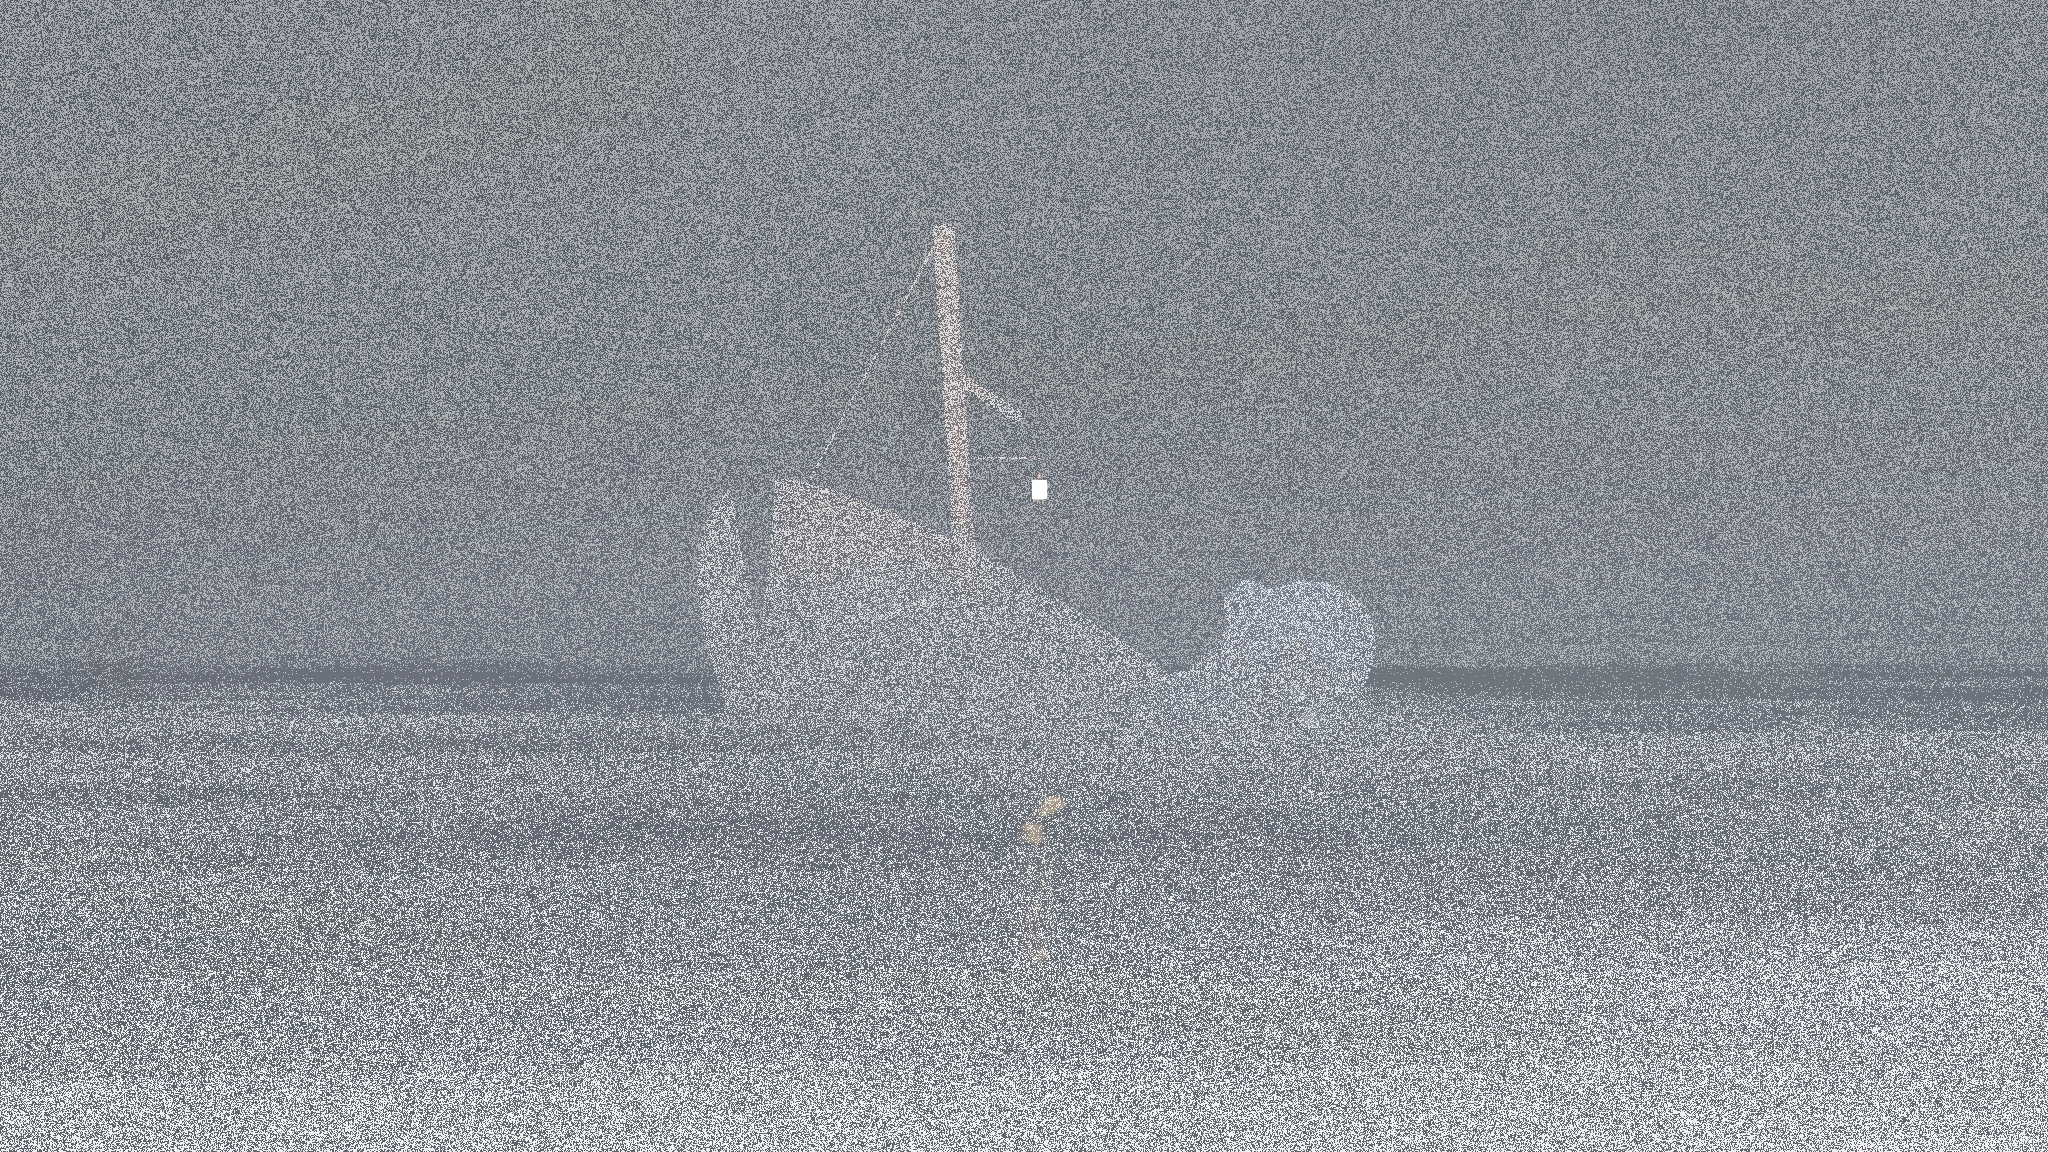
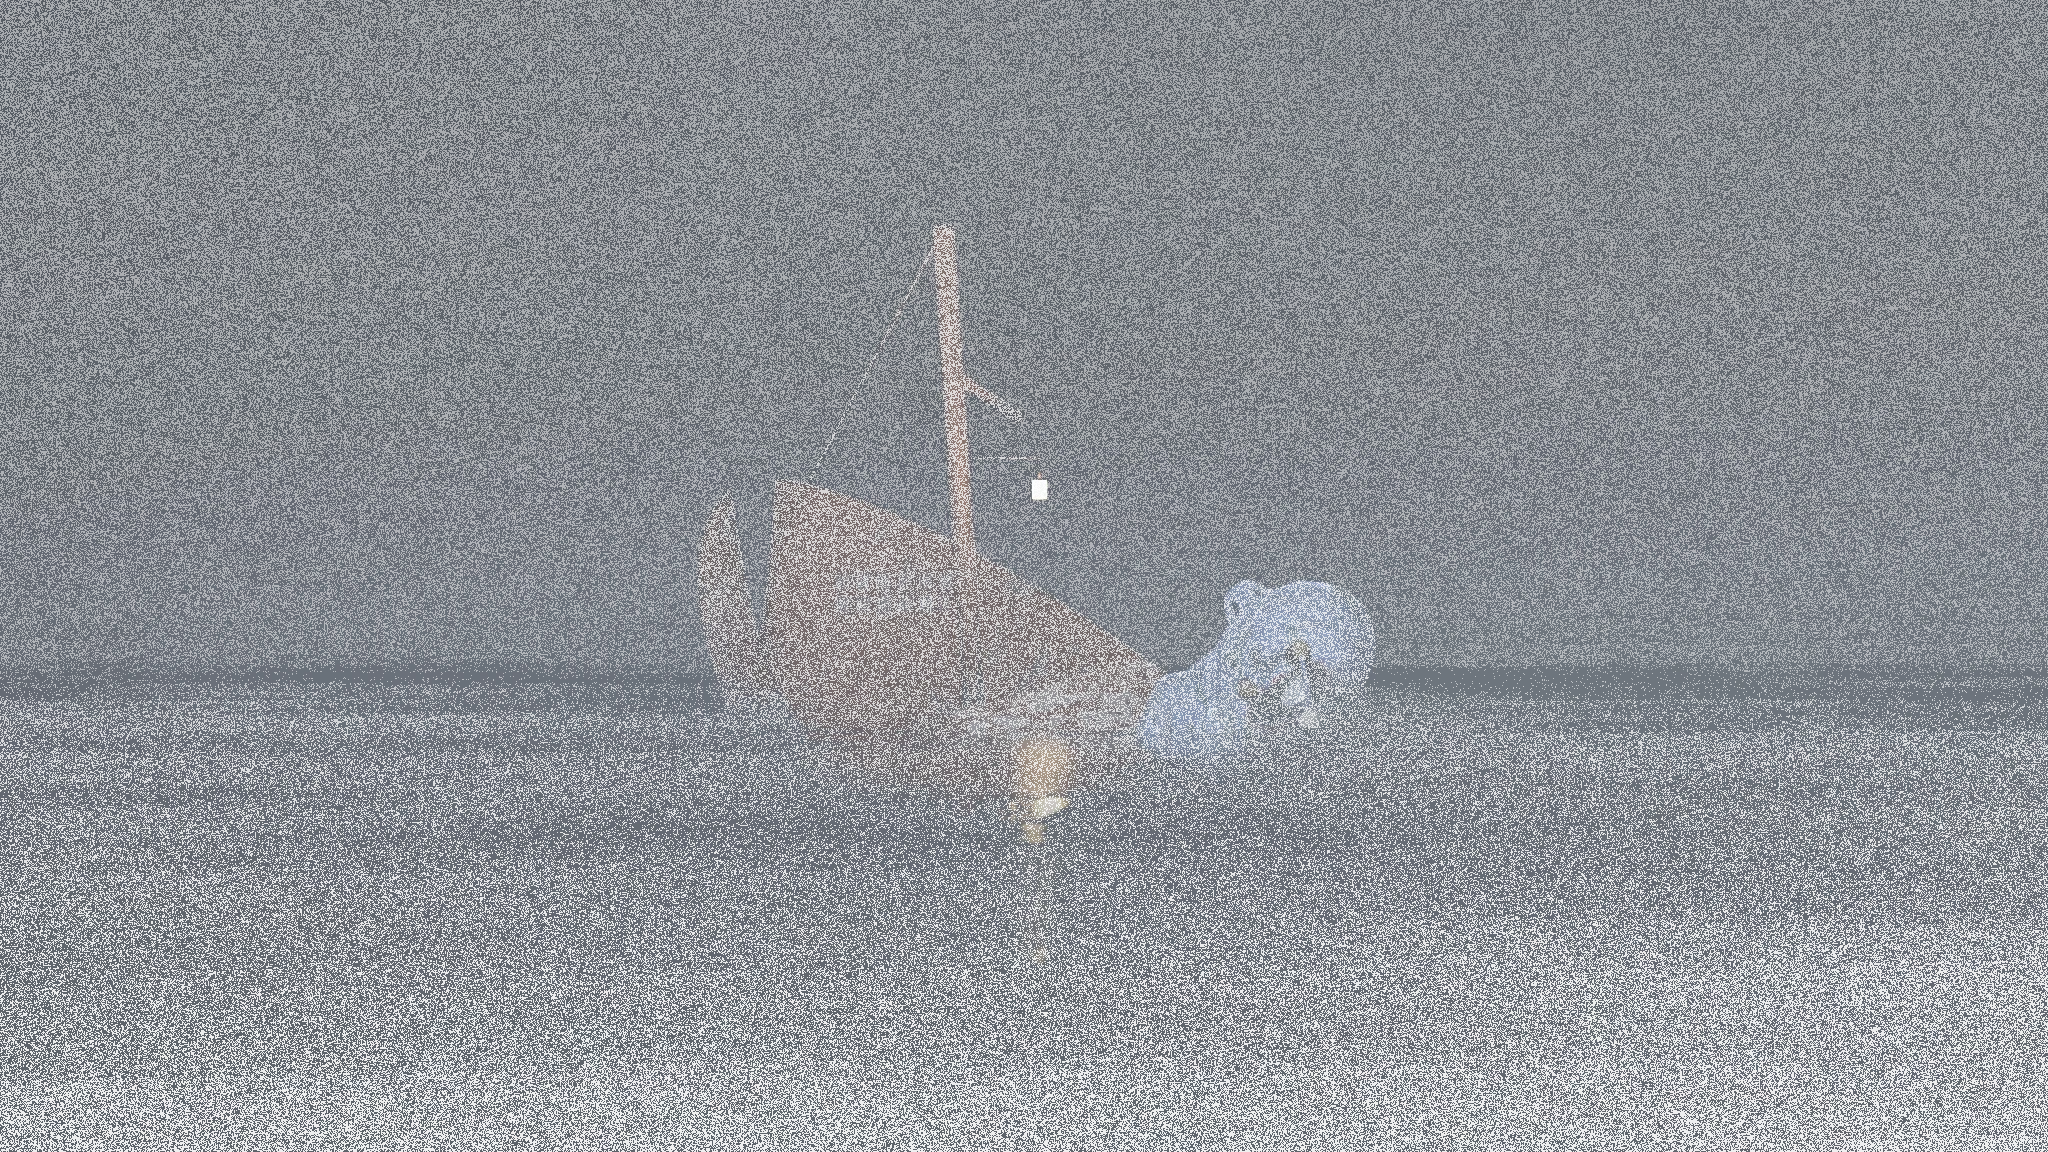
Nebbia e binocolo dalla prova dell'utente; il volantino resta 5 secondi in più
Con la nebbia accesa:
- Niente più alone della lampara davanti alla prua: veniva dal passo lamp del mondo, che
  anche a un quinto lasciava un velo caldo e granuloso col bordo tondo. La serie con la
  nebbia usa ora il passo lamp della serie senza (world_lamp_senza.webp, scala 0,15): la
  luce sull'acqua resta, la nebbia illuminata no. Tolto world_lamp.webp.
- Il relitto nel binocolo si legge: scafo, tacche, lanterna e Soggy presi per il 60% dalla
  vista senza nebbia, il resto (cielo, monti, nebbia attorno) dal render con la nebbia, così
  i bordi combaciano col mondo (tools/render/relitto_nebbia.py, anche per le viste di Soggy).
- Il binocolo si alza in 0,3 s a velocità costante con lo zoom uniforme (prima gran parte
  dell'ingrandimento arrivava alla fine) e i luoghi compaiono solo nell'ultimo tratto, quando
  riempiono il cerchio: non si vede più il loro riquadro dentro il mondo.

Il volantino dopo «Nuova partita» dura 8,8 s invece di 3,8 (un clic o un tasto lo saltano).

Provato nel gioco: prua, relitto a occhio nudo e col binocolo a metà e tutto alzato, con la
nebbia accesa e spenta; 188 test passano.

Claude-Session: https://claude.ai/code/session_01EnpEiCdqMobb6kXAdCVCvL

Changed region(s): [[0.4688, 0.5, 0.6562, 0.7188], [0.4062, 0.5, 0.4688, 0.5312]]

diff --git a/src/app/night.ts b/src/app/night.ts
@@ -243,6 +243,19 @@ function ease(x: number): number {
   return 1 - (1 - t) * (1 - t);
 }
 
+/** Il binocolo: quanto ci mette ad alzarsi e ad abbassarsi (s). Prima si avvicinava piano, e lo zoom fatto sui gradi
+ *  lasciava quasi tutto l'ingrandimento alla fine: sembrava non finire mai di salire (prova dell'utente del 13
+ *  ottobre). */
+const BINO_SU = 0.3;
+const BINO_GIU = 0.22;
+
+/** Il campo fra due zoom, con l'ingrandimento che cresce uniforme (in scala logaritmica) invece dei gradi. */
+function zoomFov(a: number, b: number, e: number): number {
+  const ta = Math.tan((a * D2R) / 2);
+  const tb = Math.tan((b * D2R) / 2);
+  return (2 * Math.atan(ta * Math.pow(tb / ta, e))) / D2R;
+}
+
 function smooth01(x: number): number {
   const t = Math.max(0, Math.min(1, x));
   return t * t * (3 - 2 * t);
@@ -898,11 +911,11 @@ export class Night {
       }
     }
     if (!this.canBino()) this.binoUp = false;
-    this.bino = approach(this.bino, this.binoUp ? 1 : 0, 7, dt);
+    this.bino = toward(this.bino, this.binoUp ? 1 : 0, BINO_SU, BINO_GIU, dt);
     if (this.bino < 0.001) this.bino = 0;
     if (!this.js) {
       const e = smooth01(this.bino);
-      view.hfov = 90 + (this.binoFov - 90) * e;
+      view.hfov = zoomFov(90, this.binoFov, e);
       view.pitch = -12 + (this.binoPitch + 12) * e;
       // le mani che reggono il binocolo: un tremolio lento e il respiro
       const t = this.d.stage.time;
@@ -2908,7 +2921,9 @@ export class Night {
     this.hud.root.style.opacity = String(1 - 0.8 * be);
     st.frame({
       layers,
-      bino: this.bino > 0 ? { amount: be, places } : null,
+      // i luoghi ad alta risoluzione compaiono solo nell'ultimo tratto della salita, quando riempiono quasi tutto il
+      // binocolo: prima si vedeva il loro riquadro, con un'altra nebbia, dentro il mondo (prova dell'utente del 13 ottobre)
+      bino: this.bino > 0 ? { amount: be, places, placesAmount: smooth01((this.bino - 0.6) / 0.4) } : null,
       overlay: this.overlay(),
       line: tk?.line ?? null,
       strokes: tk?.strokes,

diff --git a/src/engine/renderer.ts b/src/engine/renderer.ts
@@ -126,8 +126,9 @@ export interface FrameParams {
   glitch?: number;
   /** segnale perso, 0..1: la neve del televisore al posto dell'immagine (dopo il jumpscare) */
   snow?: number;
-  /** binocolo alzato: quanto (0..1) e i luoghi ad alta risoluzione da disegnare sopra al mondo */
-  bino?: { amount: number; places: BinoPlace[] } | null;
+  /** binocolo alzato: quanto (0..1) e i luoghi ad alta risoluzione da disegnare sopra al mondo; `placesAmount` (se
+   *  c'è) è quanto si vedono i luoghi, che compaiono solo alla fine della salita */
+  bino?: { amount: number; places: BinoPlace[]; placesAmount?: number } | null;
   beamAngle: number;
   /** bagliori lontani (spazio mondo), coperti dalla barca */
   glows: LightGlow[];
@@ -373,7 +374,7 @@ export class Renderer {
         .tex('uMask0', 5, m0?.amb ?? null)
         .tex('uMask1', 6, m1?.amb ?? null);
       this.tri.draw();
-      if (key === 'world' && f.bino && f.bino.amount > 0.001 && f.bino.places.length) {
+      if (key === 'world' && f.bino && (f.bino.placesAmount ?? f.bino.amount) > 0.001 && f.bino.places.length) {
         this.drawPersp(view, f);
         this.pLayer.use();
       }
@@ -467,7 +468,7 @@ export class Renderer {
     pp.m3('uRot', new Float32Array(view.worldRot))
       .f2('uTan', view.tanX, view.tanY)
       .f1('uW', f.ambient)
-      .f1('uAmount', b.amount)
+      .f1('uAmount', b.placesAmount ?? b.amount)
       .f3('uFogColor', 0.006, 0.010, 0.017)
       .f1('uFogDensity', 1 / 3200);
     for (const pl of b.places) {

diff --git a/src/app/app.ts b/src/app/app.ts
@@ -35,8 +35,9 @@ const ANNUNCIO = {
    *  si leggono ancora le condizioni in fondo; escono solo le linguette) */
   fx: 0.52,
   fy: 0.46,
-  /** quanto dura, e l'ultimo pezzo, in cui si spegne nel buio */
-  seconds: 3.8,
+  /** quanto dura (5 s in più di prima, richiesta dell'utente del 13 ottobre: un clic, un tasto o il controller lo
+   *  saltano), e l'ultimo pezzo, in cui si spegne nel buio */
+  seconds: 8.8,
   fadeOut: 0.45,
 };
 

diff --git a/tools/render/relitto_nebbia.py b/tools/render/relitto_nebbia.py
@@ -1,0 +1,94 @@
+"""
+Il relitto nel binocolo con la nebbia accesa (segnalazione dell'utente del 13 ottobre: «se guardi col binocolo la nave
+affondata non vedi nemmeno i segni sullo scafo a causa del rumore della nebbia»). Il relitto è il posto più basso del
+binocolo, sull'acqua: la foschia bassa lo copriva quasi tutto, le tacche sullo scafo e Soggy compresi.
+
+Il relitto, i suoi segni, la lanterna col riflesso e Soggy si prendono in parte (FORZA) dalla stessa vista senza
+nebbia, un po' più scura (GUADAGNO) perché la baia con la nebbia è più buia; il resto (il cielo, i monti, l'acqua e la
+nebbia attorno) resta quello del render con la nebbia, così i bordi del riquadro combaciano ancora col mondo. Cosa è
+«relitto» lo dice la vista senza nebbia: i pixel che si staccano dalla loro riga (l'acqua e il cielo sono quasi uguali
+in orizzontale), più vicini dei monti (il mist nell'alfa) e dentro un'ellisse attorno al relitto e ai posti di Soggy.
+
+Parte sempre dalle viste rese con la nebbia piena (se no ripeterlo schiarirebbe ogni volta di più): di base quelle
+installate nel commit ORIGINALI, oppure quelle della cartella data con --da (per esempio dopo aver rifatto il
+binocolo). Scrive bino_relitto.webp, bino_relitto_foxy0.webp e bino_relitto_foxy1.webp in public/assets/img (la
+serie senza nebbia, `_senza`, non cambia; scale e manifest neppure).
+
+Uso: tools/.venv/bin/python tools/render/relitto_nebbia.py [--da <cartella>] [--prova <cartella per le tavole>]
+"""
+import argparse
+import io
+import os
+import subprocess
+import sys
+
+import numpy as np
+from PIL import Image
+from scipy.ndimage import gaussian_filter
+
+QUI = os.path.dirname(os.path.abspath(__file__))
+sys.path.insert(0, QUI)
+RADICE = os.path.dirname(os.path.dirname(QUI))
+IMG = os.path.join(RADICE, 'public', 'assets', 'img')
+# il commit in cui le viste del relitto con la nebbia piena erano nel gioco
+ORIGINALI = 'adb26db'
+VISTE = ('bino_relitto', 'bino_relitto_foxy0', 'bino_relitto_foxy1')
+FORZA = 0.6
+GUADAGNO = 0.8
+
+
+def leggi(dati):
+    """Una vista del binocolo: la luce (lineare, divisa per la scala: tex^4) e il mist nell'alfa."""
+    a = np.asarray(Image.open(io.BytesIO(dati)).convert('RGBA')).astype(np.float32) / 255
+    return a[..., :3] ** 4, a[..., 3]
+
+
+def originale(nome, da):
+    if da:
+        with open(os.path.join(da, nome + '.webp'), 'rb') as f:
+            return f.read()
+    return subprocess.run(['git', '-C', RADICE, 'show', f'{ORIGINALI}:public/assets/img/{nome}.webp'], check=True, capture_output=True).stdout
+
+
+def peso(senza, mist_senza):
+    """Quanto prendere dalla vista senza nebbia (0..1): il relitto e Soggy sì, cielo, monti e acqua no."""
+    H, W = mist_senza.shape
+    lum = senza.mean(-1)
+    riga = np.median(lum, axis=1, keepdims=True)
+    stacco = np.clip((np.abs(lum - riga) / (riga + 0.004) - 0.45) / 0.35, 0, 1)
+    # i monti e il cielo hanno il mist attorno a 0,5; il relitto e l'acqua davanti meno
+    vicino = np.clip((0.48 - mist_senza) / 0.04, 0, 1)
+    yy, xx = np.mgrid[:H, :W]
+    e = ((xx / W - 0.50) / 0.20) ** 2 + ((yy / H - 0.42) / 0.30) ** 2
+    ellisse = np.clip((1.0 - e) / 0.25, 0, 1)
+    return gaussian_filter(stacco * vicino * ellisse, 2.0)
+
+
+def main():
+    ap = argparse.ArgumentParser()
+    ap.add_argument('--da', help='cartella con le viste rese con la nebbia piena (di base: il commit ORIGINALI)')
+    ap.add_argument('--prova', help='scrive qui una tavola prima/dopo invece di toccare il gioco')
+    a = ap.parse_args()
+    for nome in VISTE:
+        nebbia, mist = leggi(originale(nome, a.da))
+        with open(os.path.join(IMG, nome + '_senza.webp'), 'rb') as f:
+            senza, mist_senza = leggi(f.read())
+        w = peso(senza, mist_senza)[..., None]
+        out = nebbia * (1 - FORZA * w) + senza * GUADAGNO * FORZA * w
+        rgb8 = (np.clip(out, 0, 1) ** 0.25 * 255 + 0.5).astype(np.uint8)
+        a8 = (mist * 255 + 0.5).astype(np.uint8)
+        im = Image.fromarray(np.dstack([rgb8, a8]), 'RGBA')
+        if a.prova:
+            os.makedirs(a.prova, exist_ok=True)
+            vedi = lambda x: Image.fromarray((np.clip((y := np.clip(x * 15, 0, None)) / (1 + y), 0, 1) ** (1 / 2.2) * 255).astype(np.uint8))
+            tav = Image.new('RGB', (nebbia.shape[1], nebbia.shape[0] * 2))
+            tav.paste(vedi(nebbia), (0, 0))
+            tav.paste(vedi(out), (0, nebbia.shape[0]))
+            tav.resize((tav.width // 2, tav.height // 2)).save(os.path.join(a.prova, nome + '.jpg'), quality=88)
+        else:
+            im.save(os.path.join(IMG, nome + '.webp'), 'WEBP', quality=90, method=6, exact=True)
+        print(nome, 'peso medio', round(float(w.mean()), 4), 'massimo', round(float(w.max()), 3), flush=True)
+
+
+if __name__ == '__main__':
+    main()

diff --git a/docs/GDD.md b/docs/GDD.md
@@ -39,7 +39,7 @@ Horror in prima persona a inquadratura fissa (alla *Five Nights at Freddy's*): s
 
 Col controller (e sullo Steam Deck) si gioca tutto: la tabella è in «Controller e Steam Deck» (§14).
 
-- **Binocolo — easter egg** (fatto, approvato il 13 ottobre): lo alzi con `B` o tenendo premuto il tasto destro; la vista si stringe nei due cerchi e zooma forte (rotella: due livelli di zoom) sui luoghi dell'orizzonte, renderizzati a parte ad alta risoluzione (`tools/render/binocolo.py`: ingresso di Splashland, statua di Mama Marina, ruota panoramica, scivoli, albergo Miramare, edicola votiva, relitto, faro, paese). Le mani tremano appena, ma compensano buona parte del dondolio della barca (così a zoom massimo il dettaglio resta nel cerchio). Mentre guardi nel binocolo non vedi la barca, e **Molly non si sente guardata**. Non si può alzare sotto il telone, col sonar aperto o con un pesce in canna. Non serve a superare la notte: è un easter egg. Alcuni dettagli di lore si vedono solo così, e restano **criptici al massimo** (proposta in `LORE.md`, «Il binocolo», approvata il 13 ottobre).
+- **Binocolo — easter egg** (fatto, approvato il 13 ottobre): lo alzi con `B` o tenendo premuto il tasto destro; la vista si stringe nei due cerchi e zooma forte (rotella: due livelli di zoom) sui luoghi dell'orizzonte, renderizzati a parte ad alta risoluzione (`tools/render/binocolo.py`: ingresso di Splashland, statua di Mama Marina, ruota panoramica, scivoli, albergo Miramare, edicola votiva, relitto, faro, paese). Si alza in 0,3 s, con l'ingrandimento che cresce uniforme, e i luoghi ad alta risoluzione compaiono solo nell'ultimo tratto, quando riempiono il cerchio (prova dell'utente del 13 ottobre: prima ci metteva troppo, e durante la salita si vedeva il riquadro del luogo, con un'altra nebbia, dentro il mondo). Le mani tremano appena, ma compensano buona parte del dondolio della barca (così a zoom massimo il dettaglio resta nel cerchio). Mentre guardi nel binocolo non vedi la barca, e **Molly non si sente guardata**. Non si può alzare sotto il telone, col sonar aperto o con un pesce in canna. Non serve a superare la notte: è un easter egg. Alcuni dettagli di lore si vedono solo così, e restano **criptici al massimo** (proposta in `LORE.md`, «Il binocolo», approvata il 13 ottobre).
 
 ## 4. Struttura della notte
 

diff --git a/docs/ATMOSFERA.md b/docs/ATMOSFERA.md
@@ -133,6 +133,25 @@ Controllato nel gioco: sei direzioni con la luce alta e spenta, tutti i posti de
 vicino e via, l'opzione accesa e spenta a notte in corso. La grana che si vede sulla foschia chiara è quella della pellicola
 di sempre (`uGrain`), non del render.
 
+**Prova dell'utente del 13 ottobre sera** («la nebbia sulla parte frontale della barca, vicino alla lampara, è ancora
+fastidiosa»; «col binocolo la nave affondata non vedi nemmeno i segni sullo scafo»; «quando usi il binocolo ci mette
+troppo tempo a tirarlo su e capita di vedere lo stacco tra la tanta nebbia di senza il binocolo e il rettangolo con meno
+nebbia»). Con la nebbia accesa:
+
+- **Niente più alone della lampara nella nebbia**: veniva tutto dal passo `lamp` del mondo (provato nel gioco: tolto
+  quello sparisce, i bagliori e la barca non c'entrano), che anche a un quinto lasciava davanti alla prua un velo caldo e
+  granuloso con un bordo tondo. Ora la serie con la nebbia usa il passo `lamp` della serie senza (`world_lamp_senza.webp`,
+  scala 0,15 nel manifest): la luce della lampara sull'acqua vicina resta, la nebbia che illumina no. Il file
+  `world_lamp.webp` è stato tolto. Se si reinstalla il mondo, va rifatto.
+- **Il relitto nel binocolo** (`tools/render/relitto_nebbia.py`): è il posto più basso, sull'acqua, e la foschia bassa
+  lo copriva quasi tutto. Il relitto, le tacche, la lanterna col riflesso e Soggy si prendono per il 60% dalla stessa
+  vista senza nebbia (un po' più scura, 0,8); cielo, monti, acqua e nebbia attorno restano quelli del render, così i
+  bordi del riquadro combaciano ancora col mondo. Vale per la vista vuota e per le due di Soggy; lo script parte sempre
+  dalle viste con la nebbia piena (quelle del commit `adb26db`, o una cartella con `--da`).
+- **Il binocolo** (`src/app/night.ts`): si alza in 0,3 s e si abbassa in 0,22, a velocità costante; lo zoom cresce
+  uniforme (in scala logaritmica: sui gradi quasi tutto l'ingrandimento arrivava alla fine); i luoghi ad alta
+  risoluzione compaiono solo dal 60% della salita in su (`placesAmount`), quando riempiono il cerchio.
+
 ## Mostri e jumpscare con la nebbia (12-13 ottobre, ramo `claude/mostri-nebbia`, approvati il 13 ottobre)
 
 Decisione dell'utente del 12 ottobre sera («Mostri nella nebbia»): chi gioca con la nebbia accesa vede anche i mostri

diff --git a/docs/concept/annuncio.md b/docs/concept/annuncio.md
@@ -16,7 +16,8 @@
 ## Le due proposte di partenza
 
 Come in FNAF: dopo «Nuova partita», per 3-4 secondi, l'annuncio con cui il pescatore ha trovato il lavoro, con una lenta
-zoomata; poi la notte 1. Due anteprime a 1920×1080, come apparirebbero nel gioco:
+zoomata; poi la notte 1. (Dal 13 ottobre, richiesta dell'utente, resta 5 secondi in più, 8,8 in tutto, o finché non si
+clicca o si preme un tasto.) Due anteprime a 1920×1080, come apparirebbero nel gioco:
 
 - **A · il ritaglio di giornale**: `annuncio_giornale.jpg`
 - **B · il volantino del parco**: `annuncio_volantino.jpg`
